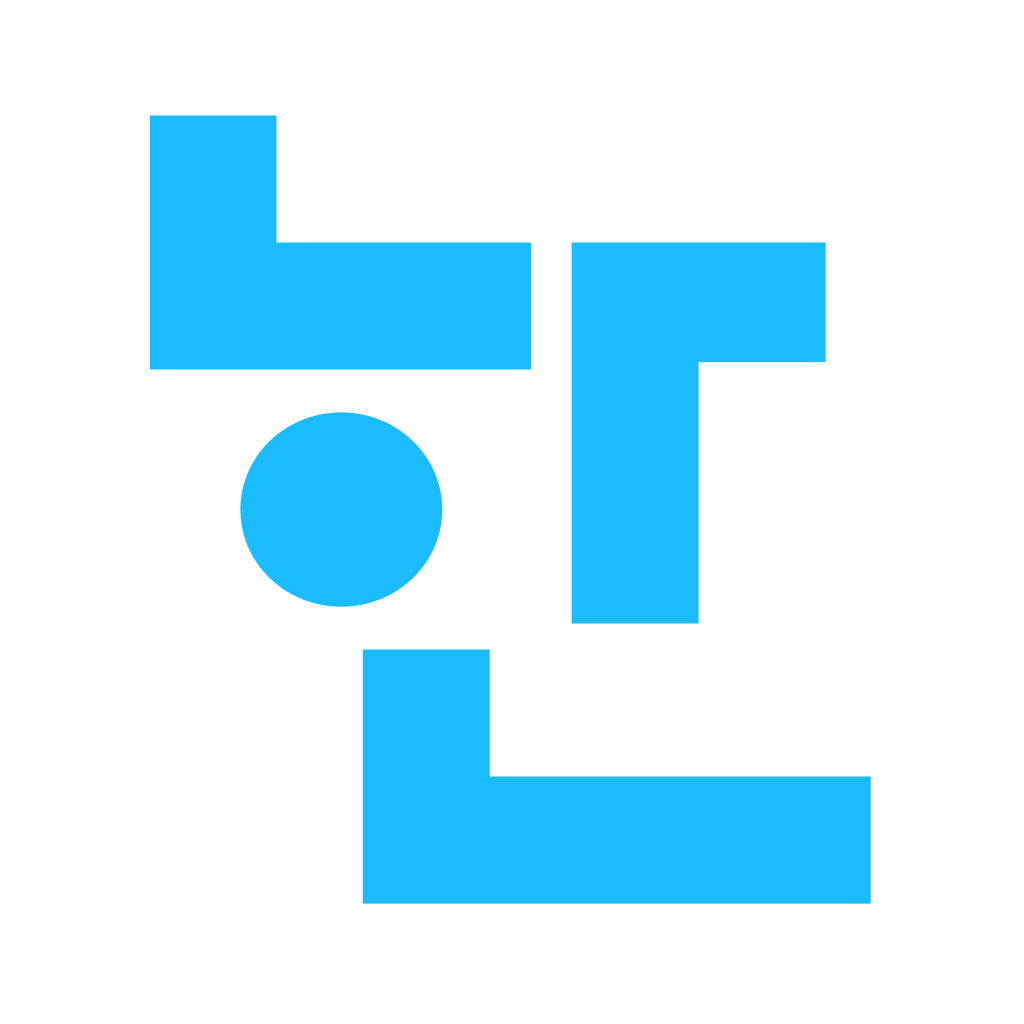
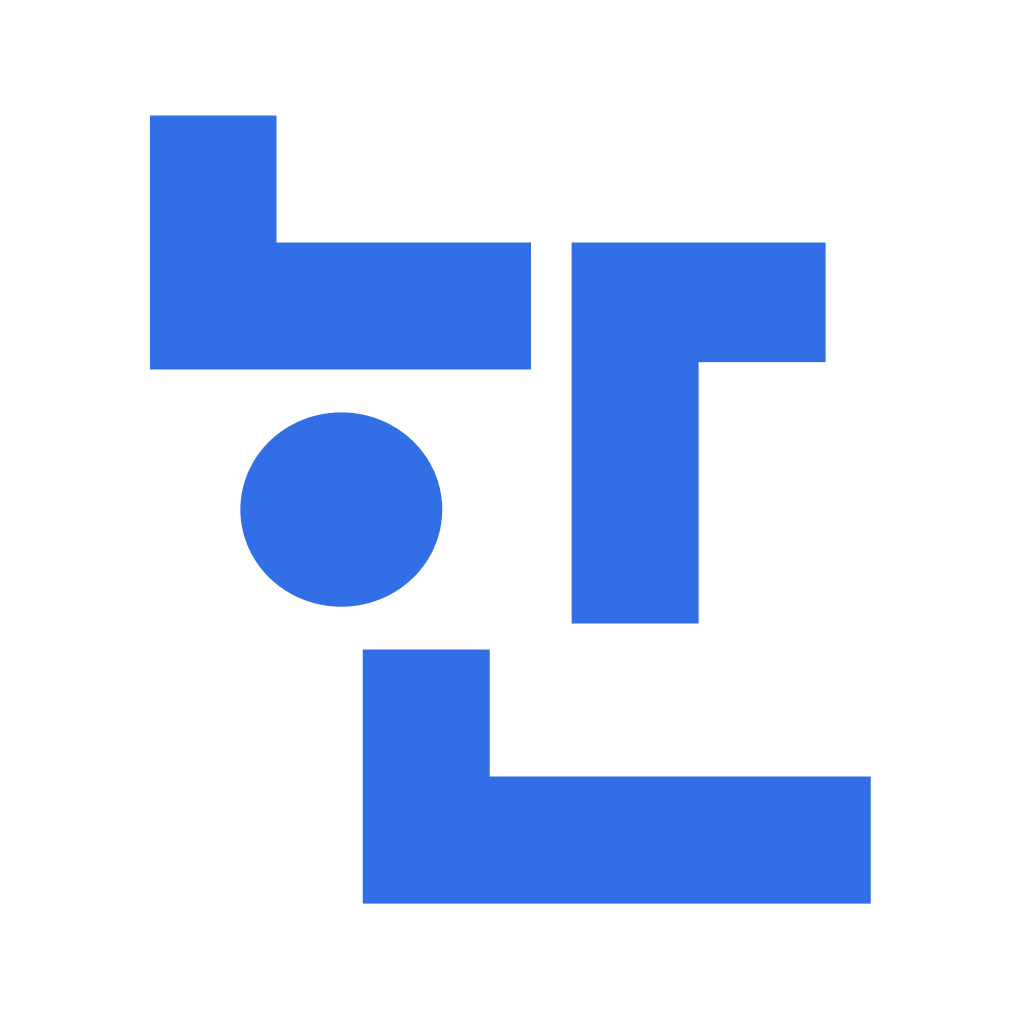
시나브로 디자인 재정비..

Changed region(s): [[0.125, 0.0938, 0.8125, 0.625], [0.3438, 0.625, 0.875, 0.9062]]

diff --git a/src/components/Main.module.css b/src/components/Main.module.css
@@ -44,7 +44,7 @@
   font-family: 'Montserrat', sans-serif;
   font-size: 64px;
   font-weight: 800;
-  color: #111111;
+  color: #0D0E82;
   line-height: 1.1;
   letter-spacing: -0.02em;
   margin: 0;
@@ -83,7 +83,7 @@
 
 /* 강조 텍스트 — span 전체가 아니라 클래스로 지정하는 게 안전 */
 .highlight {
-  color: #0A6F9E;
+  color: #0D0E82;
   font-weight: 600;
 }
 

diff --git a/src/components/Footer.module.css b/src/components/Footer.module.css
@@ -1,8 +1,8 @@
 .footer {
-  --c-bg: #1ABCFE;
+  --c-bg: #326FE7;
   --c-cream: #FAFEE4;
-  --c-white: #0A6F9E;
-  --c-heading: #A1E1FA;
+  --c-white: #0D0E82;
+  --c-heading: #F8FAE3;
 
   --pad-x: 48px;
   --pad-top: 48px;

diff --git a/src/views/AboutPage.module.css b/src/views/AboutPage.module.css
@@ -131,7 +131,7 @@
 .button {
   display: inline-block;
   align-self: flex-start;
-  background-color: #1ABCFE;
+  background-color: #0D0E82;
   color: #FFFFFF;
   border-radius: 24px;
   padding: 10px 20px;
